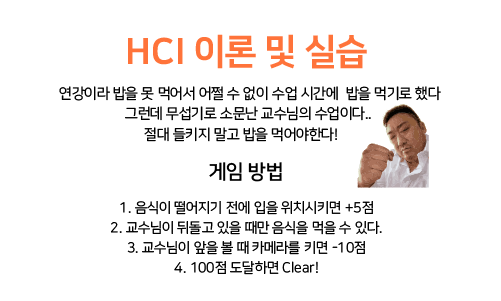
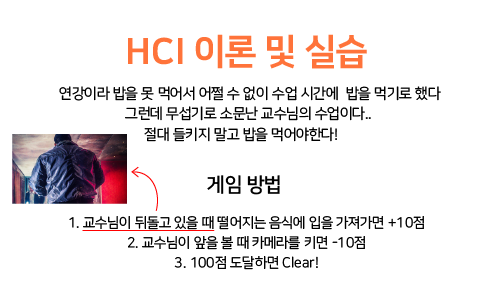
add image files

Changed region(s): [[0.0, 0.4186, 0.8683, 0.9269], [0.6886, 0.3289, 0.8683, 0.6279]]

diff --git a/game2.js b/game2.js
@@ -3,18 +3,19 @@ class Game2 extends Game {
     super(img_game, img_game_finished, img_back, img_game_info, img_game_success);
     this.button = new GameButton(this.img_button, this.img_finished_button, this.finished, 363, 230);
     this.status = 1;
-    this.is_back = true;
+    this.is_prof_back = true;
+    this.show_help_message = false;
     this.score = 0;
     this.foods = [];
   }
 
   mousePressed(mouseX, mouseY) {
     if (this.score < 100 && this.info_modal.isButtonOver(mouseX, mouseY)) {
-      clickSound.play();
+      click_sound.play();
       this.ready = true;
       this.info_modal.setVisible(!this.ready);
     } else if (900 < mouseX && mouseX < 1000 && 500 < mouseY && mouseY < 600) {
-      clickSound.play();
+      click_sound.play();
       this.score = 0;
       stage = 1;
       this.ready = false;
@@ -23,21 +24,28 @@ class Game2 extends Game {
     } else if (80 < mouseX && mouseX < 120 && 535 < mouseY && mouseY < 575) {
       this.updateCam();
     } else if (this.score >= 100 && this.success_modal.isButtonOver(mouseX, mouseY)) {
-      clickSound.play();
+      click_sound.play();
       this.score = 0;
       stage = 1;
       this.ready = false;
     }
   }
 
-  randomBack() {
-    if (frameCount % 10 == 0) {
-      if (!this.is_back) {
-        this.is_back = true;
-      }
-    }
-    if (frameCount % 50 == 0) {
-      this.is_back = !this.is_back;
+  randomBack(case_num) {
+    switch (case_num) {
+      case 0 : 
+        this.is_prof_back = true;
+        setTimeout(() => this.randomBack(1),20000);
+        break;
+      case 1 :
+        this.show_help_message = true;
+        setTimeout(() => this.randomBack(2),3000);
+        break;
+      case 2 :
+        this.show_help_message = false;
+        this.is_prof_back = false;
+        setTimeout(() => this.randomBack(0),5000);
+        break;
     }
   }
 
@@ -64,11 +72,18 @@ class Game2 extends Game {
       fill(0);
       textSize(25);
       text(this.score + " 점", 600, 470);
+    } else {
+      image(img_hci, 62, 200);
     }
       
-    if (this.is_back) {
+    if (this.is_prof_back) {
       image(img_prof_back, 60, 71);
     }
+
+    if (this.show_help_message) {
+      image(img_game2_help, 550, 145);
+    }
+
     this.drawMicAndCamByStatus();
 
     this.info_modal.setVisible(!this.ready);
@@ -79,21 +94,20 @@ class Game2 extends Game {
       this.button.setFinished(this.finished);
       this.success_modal.show(mouseX, mouseY);
     } else if (this.ready) {
-      if (this.status === 1 || this.status === 3) {
-        this.randomBack();
+      this.randomBack();
 
-        if (!this.is_back) {
+      if (this.status === 1 || this.status === 3) {
+        if (!this.is_prof_back) {
           if (this.score > 0) {
             this.score -= 10;
           }
         }
-
         for (let food of this.foods) {
           food.setGravity();
           food.display();
           food.move();
-          if (food.checkAndErase(mouthX, mouthY)) {
-            successSound.play();
+          if (food.checkAndErase(mouthX, mouthY) && this.is_prof_back) {
+            success_sound.play();
             this.score += 10;
           }
         }
@@ -188,12 +202,10 @@ class Game2 extends Game {
 
     if (detections) {
       if (detections.length > 0) {
-          // console.log(detections)
           for (let i = 0; i < detections.length; i++){
             let mouth = detections[i].parts.mouth; 
             if (mouth[10]._x !== undefined && mouth[10]._y !== undefined) {
               fill(255, 0, 0);
-              console.log(62 + cam.width - mouth[10]._x, 100 + mouth[10]._y);
               ellipse(62 + cam.width - mouth[10]._x, 100 + mouth[10]._y, 20, 20);    
               mouthX = 62 + cam.width - mouth[10]._x;
               mouthY = 100 + mouth[10]._y;
